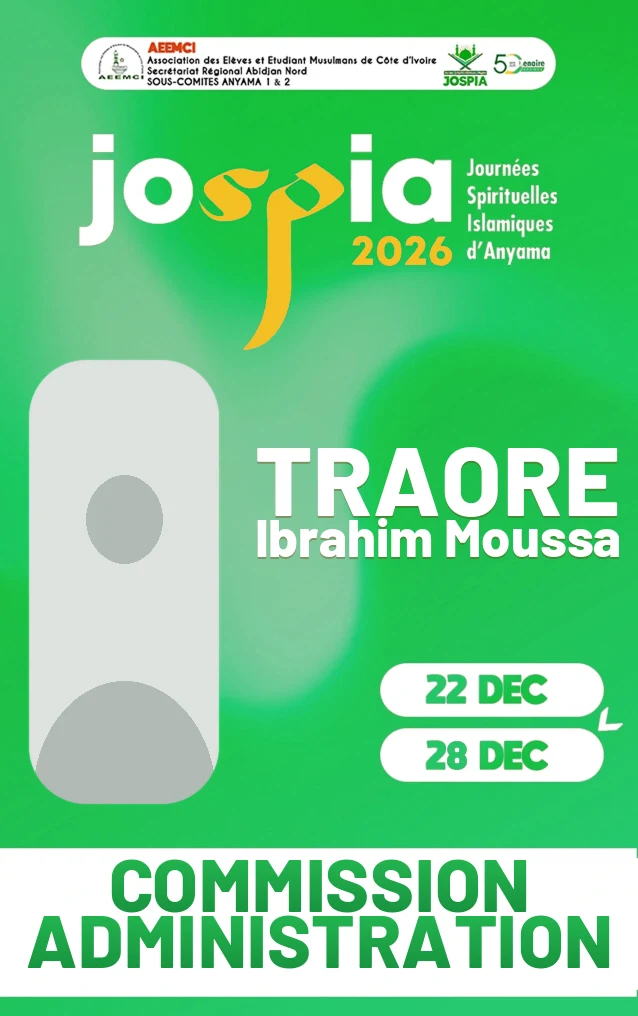
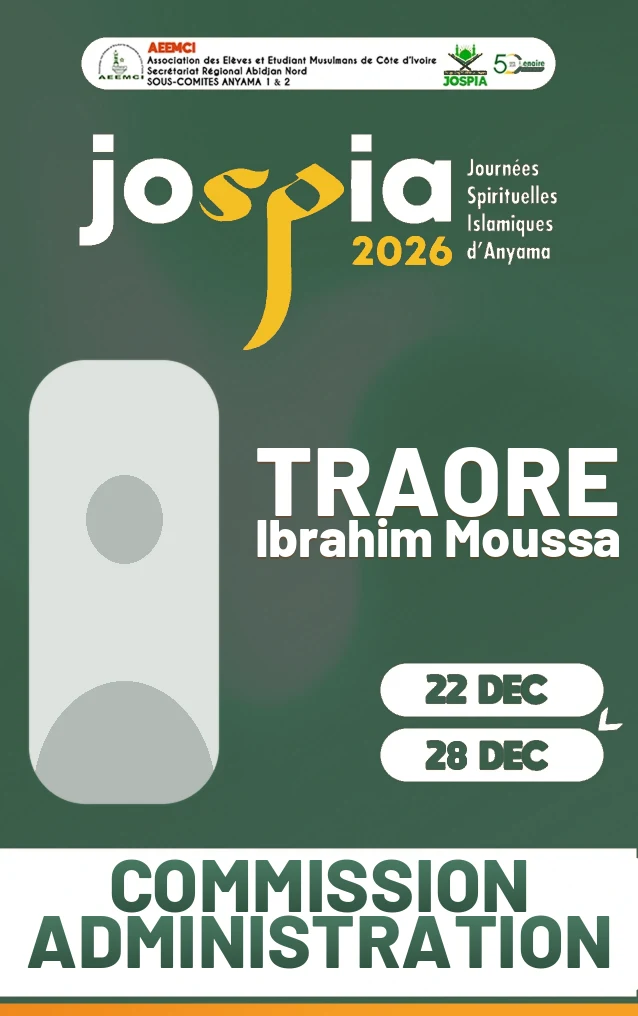
Présentation Administration : badges et diplômes en 3 propositions de couleurs (bleu pétrole, vert profond, bleu nuit, bordeaux, anthracite)
Claude-Session: https://claude.ai/code/session_01KoR57eyK1Tu3mM4eFj1smP

diff --git a/admin/presentation_administration.php b/admin/presentation_administration.php
@@ -32,17 +32,16 @@ function afficherActivite($num, $nom, $sous, $obj, $labelR, $res, $labelO = 'OBJ
     </div>
   </div></section>
 <?php }
-function afficherBadges($num, $nom, $cle) {
-    $vars = [['orange', 'Version actuelle', 'Orange', '#F28B1E'], ['vert', 'Proposition 1', 'Vert', '#1FA64A'], ['bleu', 'Proposition 2', 'Bleu', '#2F5BD6']]; ?>
+function afficherVariantes($num, $nom, $dossier, $cle, $vars, $ext = 'webp', $paysage = false) { ?>
   <section class="slide" data-steps="4"><div class="contenu">
     <div class="entete">
       <?php if ($num !== ''): ?><span class="n"><?= e($num) ?></span><?php endif; ?>
       <h2 class="degrade"><?= mots($nom) ?></h2>
     </div>
-    <div class="revs">
+    <div class="revs<?= $paysage ? ' paysage' : '' ?>">
       <?php foreach ($vars as $k => [$f, $lib, $coul, $hex]): ?>
       <figure class="rev" style="--k:<?= $k ?>">
-        <img src="<?= BASE_URL ?>/assets/img/pres/badges/<?= e($cle) ?>_<?= e($f) ?>.webp" width="638" height="1016" alt="Badge <?= e($cle) ?> — <?= e($coul) ?>">
+        <img src="<?= BASE_URL ?>/assets/img/pres/<?= e($dossier) ?>/<?= e($cle) ?>_<?= e($f) ?>.<?= e($ext) ?>" <?= $paysage ? 'width="900" height="636"' : 'width="638" height="1016"' ?> alt="<?= e($nom) ?> — <?= e($coul) ?>">
         <figcaption><i style="background:<?= $hex ?>"></i><b><?= e($lib) ?></b><span><?= e($coul) ?></span></figcaption>
       </figure>
       <?php endforeach; ?>
@@ -179,6 +178,7 @@ html,body{width:100%;height:100%;max-width:100%;overflow:hidden;overscroll-behav
 .revs{display:flex;justify-content:center;align-items:flex-start;gap:clamp(10px,2.4vw,30px);margin-top:clamp(6px,1.4vh,16px)}
 .rev{flex:0 1 31%;max-width:300px;text-align:center;opacity:0;transform:translateY(46px) scale(.94);transition:opacity .7s,transform .8s cubic-bezier(.2,.8,.2,1)}
 .rev.on{opacity:1;transform:none}
+.revs.paysage{gap:clamp(8px,1.6vw,20px)}.revs.paysage .rev{flex-basis:32%;max-width:400px}.revs.paysage .rev img{max-height:calc(var(--vh)*40);border-radius:8px}
 .rev img{display:block;width:100%;height:auto;max-height:calc(var(--vh)*52);object-fit:contain;border-radius:16px;background:#fff;box-shadow:0 16px 36px rgba(20,48,31,.22);border:1px solid #e3efe8}
 .rev figcaption{display:flex;align-items:center;justify-content:center;gap:8px;margin-top:12px;font-size:clamp(12px,min(1.5vw,calc(var(--vh)*2.6)),18px);flex-wrap:wrap}
 .rev figcaption i{width:14px;height:14px;border-radius:50%;box-shadow:0 0 0 3px rgba(20,48,31,.1)}
@@ -254,7 +254,15 @@ html,body{width:100%;height:100%;max-width:100%;overflow:hidden;overscroll-behav
     <p class="sous-titre el" style="--i:5">Bataille de Kirina — réalisations, travaux non effectués et difficultés</p>
     <div class="trait"></div>
   </div></section>
-  <?php afficherBadges('I-', 'RÉALISATIONS : LE BADGE DU SÉMINARISTE', 'seminariste'); afficherBadges('', 'RÉALISATIONS : LE BADGE DES MEMBRES DE COMMISSION', 'commission'); ?>
+  <?php
+  $BT = [['petrole', 'Proposition 1', 'Bleu pétrole', '#003E4D'], ['vert', 'Proposition 2', 'Vert profond', '#385747'], ['nuit', 'Proposition 3', 'Bleu nuit', '#1B2F6B']];
+  $OF = [['petrole', 'Proposition 1', 'Bleu pétrole', '#003E4D'], ['bordeaux', 'Proposition 2', 'Bordeaux', '#6B1F33'], ['anthracite', 'Proposition 3', 'Anthracite', '#2B2F33']];
+  afficherVariantes('I-', 'RÉALISATIONS : LE BADGE DU SÉMINARISTE', 'badges', 'seminariste', $BT);
+  afficherVariantes('', 'RÉALISATIONS : LE BADGE DES MEMBRES DE COMMISSION', 'badges', 'commission', $BT);
+  afficherVariantes('', 'RÉALISATIONS : LE DIPLÔME DES MEMBRES DE COMMISSION', 'diplomes', 'commission', $BT, 'jpg', true);
+  afficherVariantes('', 'RÉALISATIONS : LE DIPLÔME DU SÉMINARISTE', 'diplomes', 'seminariste', $BT, 'jpg', true);
+  afficherVariantes('', 'RÉALISATIONS : LE DIPLÔME DES OFFICIELS', 'diplomes', 'officiel', $OF, 'jpg', true);
+  ?>
   <?php foreach ($slidesAdmin as [$num, $nom, $res, $gras, $deux]) { afficherActivite($num, $nom, '', [], '', $res, '', $gras, $deux); } ?>
   <section class="slide final" data-steps="1"><div class="contenu merci">
     <div class="el" style="--i:0"><img class="logo" src="<?= BASE_URL ?>/assets/img/pres_logo.png" alt="JOSPIA 2026"></div>

diff --git a/includes/pdf_docs.php b/includes/pdf_docs.php
@@ -275,7 +275,8 @@ function pdfDiplomeSeminariste($nom, $S = 2.0) {
     $W = (int)round(1123 * $S); $H = (int)round(793 * $S);
     $im = pdfToile($W, $H);
     pdfModele($im, 'certificat_seminariste.jpg', $W, $H);
-    $noir = imagecolorallocate($im, 0, 0, 0);
+    $nc = $GLOBALS['pdfNomCouleur'] ?? [0, 0, 0];
+    $noir = imagecolorallocate($im, $nc[0], $nc[1], $nc[2]);
     pdfTexteBoite($im, $S, 'anton-latin-400-normal.ttf', 52, 0.98, mb_strtoupper($nom, 'UTF-8'), 190, 343, 750, 62, $noir, true, 0.52);
     return $im;
 }
@@ -286,7 +287,9 @@ function pdfDiplomeCommission($nom, $qualite, $S = 1.75) {
     $im = pdfToile($W, $H);
     pdfModele($im, 'certificat.jpg', $W, $H);
     $noir = imagecolorallocate($im, 17, 17, 17);
-    pdfTexteBoite($im, $S, 'barlow-latin-700-normal.ttf', 56, 0.98, mb_strtoupper($nom, 'UTF-8'), 214, 378, 910, 54, $noir, true, 56 * 0.03);
+    $nc = $GLOBALS['pdfNomCouleur'] ?? [17, 17, 17];
+    $couleurNom = imagecolorallocate($im, $nc[0], $nc[1], $nc[2]);
+    pdfTexteBoite($im, $S, 'barlow-latin-700-normal.ttf', 56, 0.98, mb_strtoupper($nom, 'UTF-8'), 214, 378, 910, 54, $couleurNom, true, 56 * 0.03);
 
     // « (JOSPIA) en qualité de XXX , tenue » avec segments en gras
     $segments = [['(', 0], ['JOSPIA', 1], [')', 0], [' en qualité de ', 0], [mb_strtoupper($qualite, 'UTF-8'), 1], [' , tenue', 0]];
